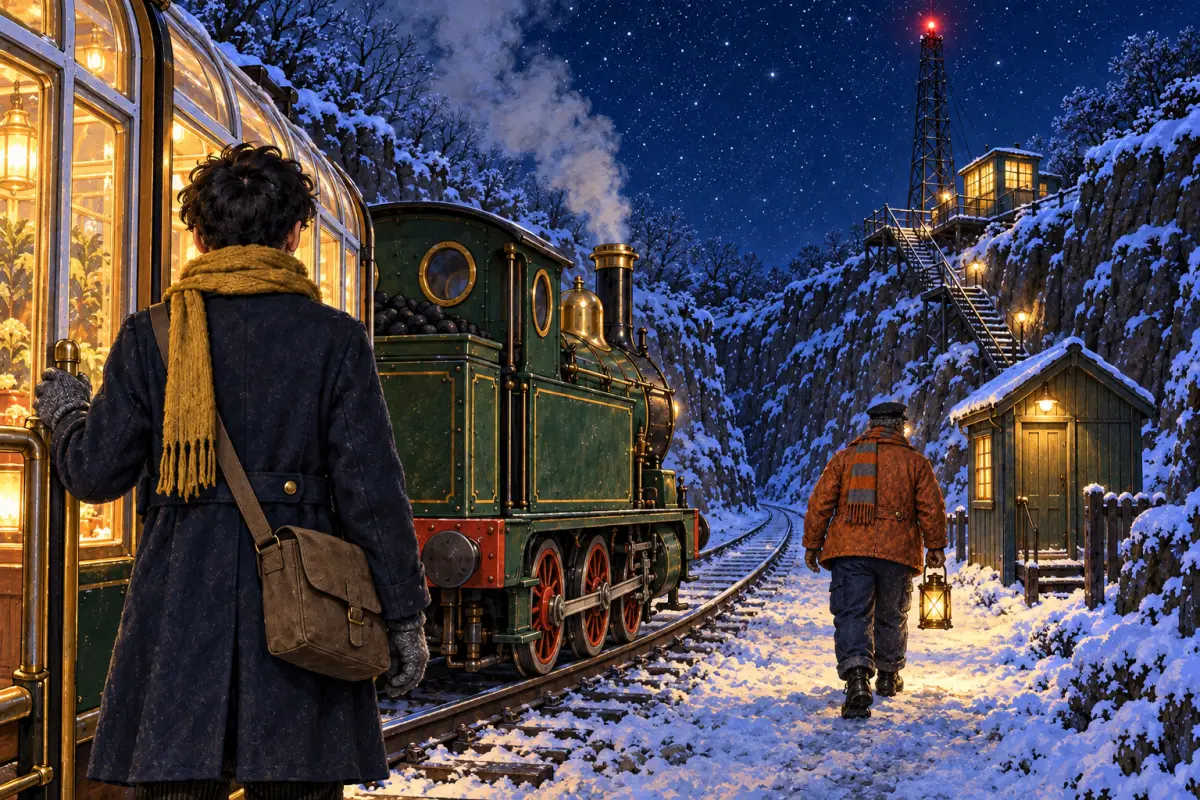
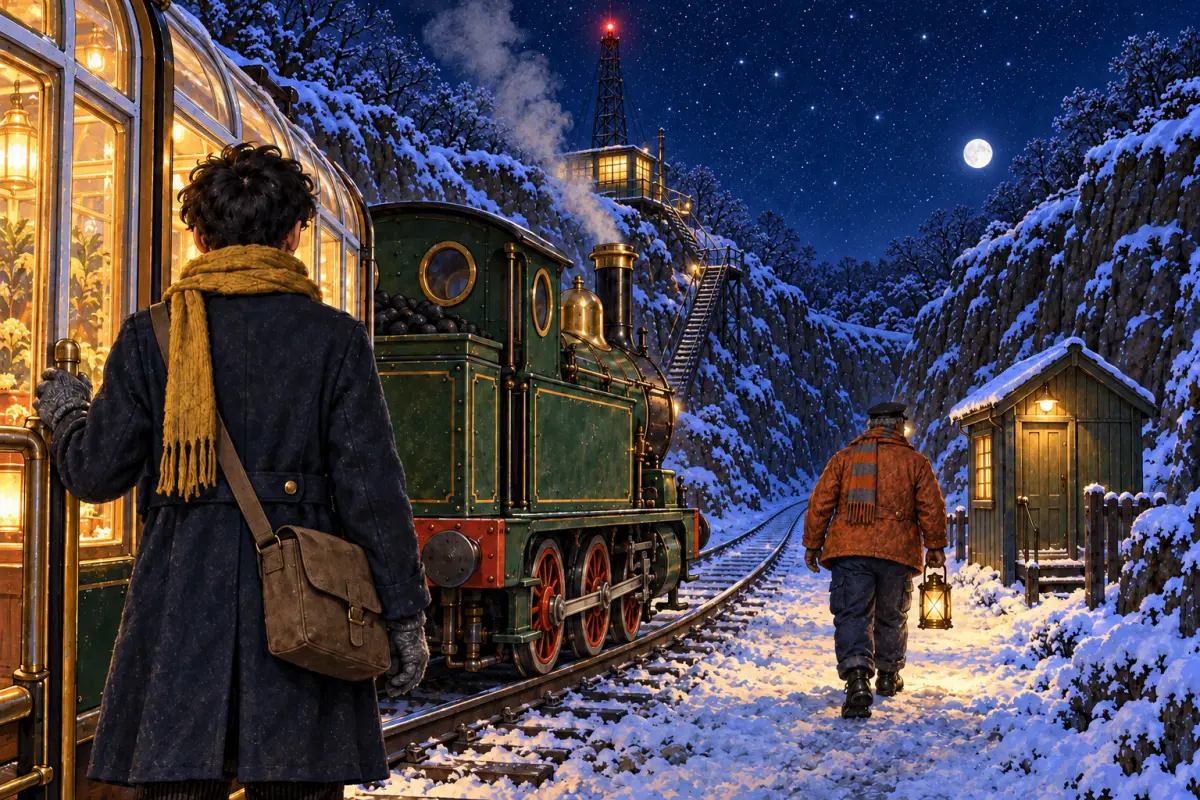
Correct journey bank geography vents and platform darkness

diff --git a/docs/glasshouse-express/art-scene-journey-astra.md b/docs/glasshouse-express/art-scene-journey-astra.md
@@ -8,6 +8,10 @@ Read CLAUDE.md, README.md, imagegen skill, whole story and bible, complete story
 
 The story dump initially failed because this worktree lacks tsx; reran successfully using owner node_modules/.bin on PATH, without changing dependencies.
 
+## Owner correction pass — 2026-10-15
+
+Exclusive corrections C03, C04, D05 and E01 completed with four built-in edit calls, complete exported prompts, all mapped packs and previous selected original targets. Injected Codex/gpt-6-astra/medium and live inherited provider/model plus current reasoningEffort medium reverified. Previous selections retained in ignored `art-src/corrections/<ID>-owner-rejected.png`; their original call records now marked rejected. New originals and final WebPs locally inspected; owner approval pending. Other 11 page files unchanged.
+
 ## Validation
 
 - PASS assigned coverage: 15/15 selected PNGs at 1536×1024 and 15/15 WebPs at 1200×800; 15 distinct final SHA-256 hashes.
@@ -199,12 +203,12 @@ Reference contents establish identity only. Compose a side-window view from insi
 
 ### C03
 
-Accepted first candidate: rear player at doorway, Dov with square lantern approaching hut, correct engine, radio studio/mast/stairs above; trailing vehicles cropped.
+Owner rejected original same-bank hut/studio geography. Targeted built-in edit relocates studio, mast and descending iron stair to LEFT bank beyond engine while hut and approaching Dov stay RIGHT of rails. Exactly two people and original train crop retained. Final PNG/WebP checked against opposite-bank reference.
 
[4 lines of base64/hex data omitted]
 
-#### Call 7 — selected
+#### Call 7 — rejected
 
 Original generated path: `/Users/carl/.codex/generated_images/01a13c80-41e8-74d0-876c-b5a0baf24582/exec-3b69e7b5-c08c-48d5-90b1-58a28dd75284.png`
[1 lines of base64/hex data omitted]
@@ -236,12 +240,45 @@ Reference image 3: upper full board = keeper-props; lower full board = mere-and-
 Reference contents establish identity only. Compose from just behind the apprentice in the near open carriage doorway, looking ahead along the single stopped engine toward the small token hut. Rear of glowing carriage is cropped by frame, and two trailing dark carriages entirely out of shot. Dov walks toward hut holding his square X-braced brass lantern; only Dov and rear-facing apprentice visible. Tall mast and cabin rise above snowy cutting with zigzag stair. Keep roof vents closed, engine three driving axles/no tender. No token in player hands, no other reference equipment, no Cassia in window.
 ```
 
+#### Call 30 — selected
+
+Original generated path: `/Users/carl/.codex/generated_images/01a13c80-41e8-74d0-876c-b5a0baf24582/exec-d1fc2d94-ac09-49d6-9e26-c34aa28f334b.png`
[1 lines of base64/hex data omitted]
+
+Attachments in actual order:
+
[4 lines of base64/hex data omitted]
+
+Complete actual prompt:
+
+```text
+The attached sheets lock identity, shape, colour, clothing and scale only. Draw ONLY the scene below, not a lineup. Do not add other subjects or equipment from a reference. Match this scene’s possession, costume variant, time, location and object state. Shared-path illustrations must be valid on every arrival route; never interpret an optional companion as required.
+Painterly 1980s fantasy-adventure illustration, gouache and ink line, luminous frost blues and warm glasshouse amber, expressive invented faces, cinematic light, 3:2 landscape. Family-friendly, gently comic. Only the listed characters appear; Hesper appears only at the Terminus, Cassia only inside her studio, Sallow only at the Ember Works, Fenn only at the Conservatory; radio voices and telephone voices are never drawn. No real people's likenesses, no famous trains or film props, no logos, no legible text or captions (signs and plates are blank or unreadable). Every scene states location, weather and time: the night is clear with hard frost and stars, wind only on the Mere viaduct, tunnel interiors enclosed and weatherless, dawn scenes clear and golden. Use 'alone (X is not here)' when specified. Keep every character's clothing word-for-word identical to the cast description; scene prompts never substitute outfits. The player's face is always hidden. Action is machinery, weather and plants, never injury; falling glass lands where nobody stands. Optional companions, props and the empty dark carriages are absent unless explicitly listed for that scene.
+
+THE PLAYER: an unnamed, gender-neutral teenager, always seen from behind or over the shoulder with the face hidden, in a navy wool railway greatcoat with brass buttons, a mustard knitted scarf, grey woollen gloves, dark corduroy trousers and black lace-up boots, with a brown canvas keeper's satchel worn across the body on a strap from the LEFT shoulder to the RIGHT hip, closed by a single brass flap buckle. Short dark hair under no hat. The brass thaw-lamp is carried only when listed.
+
+DOV PELLINGER: an original big man in his fifties, dark brown skin, close-cropped grey beard, a black railway cap with a small round brass badge, a quilted rust-orange oilskin jacket over navy bib overalls, a scarf of alternating orange and grey stripes with an orange fringe, heavy black boots. Carries a square X-braced brass hand lantern when outdoors. Calm, slow-moving, kind.
+
+MARIGOLD: a small squat dark-green tank locomotive with NO tender and an integral rear coal bunker, three driving axles (six red-rimmed wheels), a tall chimney capped in brass, a round brass headlamp on the smokebox front, a red buffer beam with a pair of round buffers, black smokebox, polished brass dome and a short cab with round brass-trimmed windows. Always the same engine; no famous or named real locomotive.
+
+Clear frosty night, two o'clock, at Beacon Cut on the far shore of the frozen Mere: the line in a shallow rock cutting, a small token hut with a lamp beside the rails, and above the cutting a tall steel radio mast with a blinking red lamp at its top and a lit studio cabin at its base reached by an iron stair. Marigold stands stopped; Dov walks to the hut with a lantern; the player stands at the open carriage door, seen from behind. Only these two people. Stars, snow on the rocks. Framing cuts off just behind the glowing Glasshouse Carriage; the two empty carriages coupled behind it are out of frame.
+
+Use case: precise-object-edit. Preserve 1536x1024.
+Reference image 1: upper full board = player-hesper; lower full board = dov
+Reference image 2: upper full board = marigold; lower full board = glasshouse-carriage
+Reference image 3: upper full board = keeper-props; lower full board = mere-and-beacon
+Last attachment is edit target. Correct ONLY bank geography: retain token hut and approaching Dov on RIGHT of railway exactly as now. Remove studio, mast and entire staircase from right bank. Relocate this same studio and mast to the LEFT bank beyond/above the locomotive, with iron stair descending the LEFT rock face to the left side of rails. Railway clearly separates hut/right bank from studio/stair/left bank. Match opposite-bank relationship in mere-and-beacon board. Preserve player, Dov pose/lantern, exactly two people, engine and cropped glowing carriage, rails, time, clothing and all other details. No duplicated cabin/mast/stairs, no extra vehicles or figures.
+```
+
 ### C04
 
-Initial copied an extra studio/mast into exterior view and incidental plant. Edit removes duplicates/plant; Cassia teal outfit/headphones, natural receiver hand, rear player and four-vehicle train below verified.
+Earlier edit removed duplicate studio/plant, but owner rejected remaining same-bank stair/hut geography. Targeted built-in correction puts own studio access stairs near LEFT below window, token hut FAR RIGHT across rails; no exterior duplicate studio/mast. Exactly four train vehicles, Cassia/player, interior, hands and clothing preserved. Final PNG/WebP inspected.
 
[4 lines of base64/hex data omitted]
 
 #### Call 8 — rejected
 
@@ -273,7 +310,7 @@ Reference image 3: upper full board = lower-town-interiors; lower full board = m
 Reference contents establish identity only. Inside studio, apprentice rear view near doorway at left, Cassia at mixing desk at right with receiver in one naturally formed hand, silver headphones around neck. Window above desk looks steeply down on EXACTLY four coupled vehicles on a single curved track: one squat green engine, one glowing glasshouse carriage, precisely TWO dark empty carriages. All roof vents closed. No tender, no extra carriage, no figures outside. Make train small enough to show all four vehicles clearly. Include both turntables, microphone, meters and cassette deck, no readable text. No other cast from reference boards.
 ```
 
-#### Call 9 — selected
+#### Call 9 — rejected
 
 Original generated path: `/Users/carl/.codex/generated_images/01a13c80-41e8-74d0-876c-b5a0baf24582/exec-e7edcdbf-0ee6-4c73-8810-cb303b80aa20.png`
[1 lines of base64/hex data omitted]
@@ -302,6 +339,37 @@ Reference image 1: upper full board = player-hesper; lower full board = lower-to
 Reference image 2: upper full board = marigold; lower full board = glasshouse-carriage
 Reference image 3: upper full board = lower-town-interiors; lower full board = mere-and-beacon
 Final image is target. Remove the duplicate lit studio cabin and radio mast on the ridge visible through the window, replacing them with uninterrupted snowy rock and dark trees: we are INSIDE the one studio, so it cannot appear again across the cutting. Retain the small token hut by the rails and stair leading down into cutting. Remove the incidental houseplant in the extreme upper-right indoor corner. Preserve all other details exactly: Cassia face, correct teal jacket, silver headphones, phone receiver and natural hands; hidden-face player with correct satchel; exactly four coupled vehicles with closed vents outside; mixing desk, twin turntables, microphone and cassette deck. No extra subjects from refs.
+```
+
+#### Call 31 — selected
+
+Original generated path: `/Users/carl/.codex/generated_images/01a13c80-41e8-74d0-876c-b5a0baf24582/exec-64adcc8f-c70b-4dc6-8d7c-b1db0e71da1f.png`
[1 lines of base64/hex data omitted]
+
+Attachments in actual order:
+
[4 lines of base64/hex data omitted]
+
+Complete actual prompt:
+
+```text
+The attached sheets lock identity, shape, colour, clothing and scale only. Draw ONLY the scene below, not a lineup. Do not add other subjects or equipment from a reference. Match this scene’s possession, costume variant, time, location and object state. Shared-path illustrations must be valid on every arrival route; never interpret an optional companion as required.
+Painterly 1980s fantasy-adventure illustration, gouache and ink line, luminous frost blues and warm glasshouse amber, expressive invented faces, cinematic light, 3:2 landscape. Family-friendly, gently comic. Only the listed characters appear; Hesper appears only at the Terminus, Cassia only inside her studio, Sallow only at the Ember Works, Fenn only at the Conservatory; radio voices and telephone voices are never drawn. No real people's likenesses, no famous trains or film props, no logos, no legible text or captions (signs and plates are blank or unreadable). Every scene states location, weather and time: the night is clear with hard frost and stars, wind only on the Mere viaduct, tunnel interiors enclosed and weatherless, dawn scenes clear and golden. Use 'alone (X is not here)' when specified. Keep every character's clothing word-for-word identical to the cast description; scene prompts never substitute outfits. The player's face is always hidden. Action is machinery, weather and plants, never injury; falling glass lands where nobody stands. Optional companions, props and the empty dark carriages are absent unless explicitly listed for that scene.
+
+THE PLAYER: an unnamed, gender-neutral teenager, always seen from behind or over the shoulder with the face hidden, in a navy wool railway greatcoat with brass buttons, a mustard knitted scarf, grey woollen gloves, dark corduroy trousers and black lace-up boots, with a brown canvas keeper's satchel worn across the body on a strap from the LEFT shoulder to the RIGHT hip, closed by a single brass flap buckle. Short dark hair under no hat. The brass thaw-lamp is carried only when listed.
+
+CASSIA FLINT: an original woman in her twenties, deep brown skin, short bleached-blonde curls, big silver headphones worn round her neck, a shiny teal puffer jacket over a black turtleneck, black leggings with acid-yellow leg warmers and white high-top sneakers. Quick grin, always near a microphone.
+
+Clear frosty night, two o'clock, inside the small radio studio cabin at the foot of the Beacon Cut mast: egg-crate foam on the walls, a mixing desk with glowing meters, twin turntables, a cassette deck, a desk microphone on a boom, a window looking down on the stopped lit train in the cutting below. Cassia Flint in her shiny teal puffer jacket with big silver headphones round her neck holds a telephone receiver and grins at the player, who stands just inside the door seen from behind. Only these two people. Seen from above, the train in the cutting is the whole four-vehicle Express: Marigold, the glowing carriage and the two dark, empty glass carriages coupled behind.
+
+Use case: precise-object-edit. Preserve 1536x1024.
+Reference image 1: upper full board = player-hesper; lower full board = lower-town-cast
+Reference image 2: upper full board = marigold; lower full board = glasshouse-carriage
+Reference image 3: upper full board = lower-town-interiors; lower full board = mere-and-beacon
+Last attachment is edit target. Edit ONLY the view through studio window. The viewer is INSIDE the studio on its own bank: own iron access stairs descend from just below the window at near LEFT, on near-side rock face, partly cropped by left window edge. Token hut stays FAR RIGHT across railway on opposite bank. Remove the staircase currently above/beside token hut on far right; replace that area with snowy rock and trees. No studio cabin or mast in exterior view because we are inside that cabin. Preserve exactly four train vehicles below: engine, amber glasshouse, two dark glasshouses, all fully visible. Match opposite banks and near-left stair/far-right hut arrangement in mere-and-beacon reference bottom-right panel, without copying layout borders. Keep all interior, Cassia, player, clothes, faces, hands, furniture, telephone, lighting and composition unchanged.
 ```
 
 ### C05
@@ -724,10 +792,10 @@ Composition: tightly frame the end-window and rear-view player in near darkness,
 
 ### D05
 
-Initial had three dark cars and dome behind engine, rejected. Edit yields exactly four vehicles, dark dome ahead, city/frozen lake below, fully dark starry sky and red mast. Rear player small at window, no diagnostically readable plant state.
+Initial three dark cars/dome behind engine rejected; earlier edit repaired consist/direction but owner found raised ridge vents. Targeted built-in correction closes all three carriage roof vent rows flush, retaining brass hardware. Exactly four vehicles, fully dark sky, dome ahead, city/lake and player preserved. Final PNG/WebP inspected.
 
[4 lines of base64/hex data omitted]
 
 #### Call 20 — rejected
 
@@ -763,7 +831,7 @@ Reference image 3: entire board = conservatory-exterior
 Wide cinematic elevated landscape: exactly FOUR connected railway vehicles on one coherent gently curved shelf track: green tank engine leading toward the dark summit dome, ONE amber greenhouse carriage, then exactly TWO dark unlit matching greenhouse carriages. All four fully visible. Engine three axles, no tender. Small rear-view player visible from carriage end window, face hidden; plants and vent states too small to read. Dark dome ahead at higher summit to right, city and frozen lake far below to left. Entire star-filled sky deep midnight navy with no sunrise or pale horizon. No extra people, railway vehicles, buildings from board layouts, labels or inset details.
 ```
 
-#### Call 21 — selected
+#### Call 21 — rejected
 
 Original generated path: `/Users/carl/.codex/generated_images/01a13c80-41e8-74d0-876c-b5a0baf24582/exec-a1fa7190-0bba-4e25-bbd1-2958461934ec.png`
[1 lines of base64/hex data omitted]
@@ -796,6 +864,41 @@ Reference image 1: upper full board = player-hesper; lower full board = marigold
 Reference image 2: upper full board = glasshouse-carriage; lower full board = mere-and-beacon
 Reference image 3: entire board = conservatory-exterior
 Last image is edit target, not a reference. Remove ONE of the THREE dark trailing glass carriages: result must be exactly engine, one amber carriage, TWO dark carriages = FOUR total vehicles. Move the dark Conservatory dome and its gate from upper right to a rocky summit shelf at lower-left ahead of the engine, with track curving toward it beyond the left crop. Remove old dome and gate at upper right, replacing with snow/rock/trees and dark cut behind the last carriage. Preserve midnight sky, city/lake below, player rear view, engine identity. Close the readable raised ridge vents flush so no raised panels; keep plants too indistinct to diagnose their health. No new objects or people.
+```
+
+#### Call 32 — selected
+
+Original generated path: `/Users/carl/.codex/generated_images/01a13c80-41e8-74d0-876c-b5a0baf24582/exec-58109a33-75fc-43f4-9657-82150258285c.png`
[1 lines of base64/hex data omitted]
+
+Attachments in actual order:
+
[4 lines of base64/hex data omitted]
+
+Complete actual prompt:
+
+```text
+The attached sheets lock identity, shape, colour, clothing and scale only. Draw ONLY the scene below, not a lineup. Do not add other subjects or equipment from a reference. Match this scene’s possession, costume variant, time, location and object state. Shared-path illustrations must be valid on every arrival route; never interpret an optional companion as required.
+Painterly 1980s fantasy-adventure illustration, gouache and ink line, luminous frost blues and warm glasshouse amber, expressive invented faces, cinematic light, 3:2 landscape. Family-friendly, gently comic. Only the listed characters appear; Hesper appears only at the Terminus, Cassia only inside her studio, Sallow only at the Ember Works, Fenn only at the Conservatory; radio voices and telephone voices are never drawn. No real people's likenesses, no famous trains or film props, no logos, no legible text or captions (signs and plates are blank or unreadable). Every scene states location, weather and time: the night is clear with hard frost and stars, wind only on the Mere viaduct, tunnel interiors enclosed and weatherless, dawn scenes clear and golden. Use 'alone (X is not here)' when specified. Keep every character's clothing word-for-word identical to the cast description; scene prompts never substitute outfits. The player's face is always hidden. Action is machinery, weather and plants, never injury; falling glass lands where nobody stands. Optional companions, props and the empty dark carriages are absent unless explicitly listed for that scene.
+
+THE PLAYER: an unnamed, gender-neutral teenager, always seen from behind or over the shoulder with the face hidden, in a navy wool railway greatcoat with brass buttons, a mustard knitted scarf, grey woollen gloves, dark corduroy trousers and black lace-up boots, with a brown canvas keeper's satchel worn across the body on a strap from the LEFT shoulder to the RIGHT hip, closed by a single brass flap buckle. Short dark hair under no hat. The brass thaw-lamp is carried only when listed.
+
+THE GLASSHOUSE CARRIAGE: a long railway carriage whose upper body is a greenhouse of small panes in a white-painted iron frame on a dark-green wooden underbody, a row of hinged ridge vents along the roof with a brass wax autovent cylinder at the centre, a small black iron stove chimney at one end, end windows and sliding platform doors, glowing warm amber from inside. Two matching dark, unlit, empty glass carriages (the Fern House and Orchard Car) couple behind it only when a scene lists them.
+
+MARIGOLD: a small squat dark-green tank locomotive with NO tender and an integral rear coal bunker, three driving axles (six red-rimmed wheels), a tall chimney capped in brass, a round brass headlamp on the smokebox front, a red buffer beam with a pair of round buffers, black smokebox, polished brass dome and a short cab with round brass-trimmed windows. Always the same engine; no famous or named real locomotive.
+
+THE CONSERVATORY: a great glass dome on the summit of Cold Hill, white-painted iron ribs, a lantern cupola at the crown, a stone base, and on its eastern face a curved row of twelve tall vertical iron shutters with a heavy chain and a large brass wax cylinder mounted high where their gear meets the ribs. Inside, a round raised stone planting bed (the Great Bed) with a small iron stove door in its base, and narrow hand-opened side louvres low in the walls. Outside, iron gates in a stone wall and a frozen fountain.
+
+Clear frosty deep night with no dawn glow yet, the Glasshouse Express emerging from the summit cut onto the top of Cold Hill: Marigold leading the glowing glass carriage and, coupled behind it, the two dark, empty glass carriages (the Fern House and the Orchard Car) along a shelf of track above the whole city, Tallowmere's lights spread far below in tiers down to the moonlit frozen Mere with the tiny red mast light on its far shore; ahead on the summit, the great dark glass dome of the Conservatory with its white iron ribs and lantern cupola. The player is a small figure seen from behind at the carriage window. Stars; the eastern sky still fully dark. Only the player visible.
+
+Use case: precise-object-edit. Preserve 1536x1024.
+Reference image 1: upper full board = player-hesper; lower full board = marigold
+Reference image 2: upper full board = glasshouse-carriage; lower full board = mere-and-beacon
+Reference image 3: entire board = conservatory-exterior
+Last attachment is edit target. ONLY close ALL raised ridge vent glass panels on ALL THREE greenhouse carriage roofs. Every vent must lie shut, flush with curved roof glazing, with continuous unbroken glazed roof silhouette. Remove lifted panels, triangular gaps and propped-open vent frames; retain brass autovent cylinders and fixed structural ribs as hardware. This scene has CLOSED vents on every arrival route. Preserve exactly four vehicles, train position/geometry, dome, dark night sky, city/lake, player, colors and all other details unchanged.
 ```
 
 ### D06
@@ -944,10 +1047,10 @@ Last image edit target. Repair railway geometry ONLY: remove current separate tr
 
 ### E01
 
-Initial fire too high, rejected. Targeted edit reduces to low coal glow. Hesper seated bowed at radio, left bandaged ankle on stool under tartan, grey sock; rear seated player hands clasped, empty fully dark platform. Natural anatomy and hands.
+Initial high fire corrected to low coal glow; owner then rejected illuminated exterior platform lamps/windows. Targeted built-in edit extinguishes all exterior lights: empty moonlit blue platform, no train. Interior lamplight, low coals, bowed Hesper/radio, LEFT bandaged ankle on stool, tartan and rear seated player preserved. Final PNG/WebP inspected.
 
[4 lines of base64/hex data omitted]
 
 #### Call 27 — rejected
 
@@ -975,7 +1078,7 @@ Reference image 1: upper full board = player-hesper; lower full board = winter-t
 Quiet restrained composition: rear-view player seated on hard wooden chair foreground left, grey gloved hands clasped visibly in lap, face entirely hidden. Hesper across small desk to right, head bowed, glasses and white short plait, one natural hand resting on small transistor radio. Her LEFT bandaged ankle is propped on a low stool, foot grey sock, red tartan blanket draped over knee and stool allowing bandage to read. Her other foot on floor. Low coal glow, dark empty platform through window, fully dark 5am not dawn. No train, extra people, outdoor clothing on Hesper, crutches, plants or copied reference labels.
 ```
 
-#### Call 28 — selected
+#### Call 28 — rejected
 
 Original generated path: `/Users/carl/.codex/generated_images/01a13c80-41e8-74d0-876c-b5a0baf24582/exec-57f1149e-7048-4250-8b66-aa44cfa5bb99.png`
[1 lines of base64/hex data omitted]
@@ -1000,6 +1103,33 @@ Clear frosty night, five in the morning and still fully dark, inside the station
 Use case: precise-object-edit. 1536x1024.
 Reference image 1: upper full board = player-hesper; lower full board = winter-terminus
 Last attached image edit target. Change ONLY fireplace: replace tall bright flames with a low bed of dim red glowing coals and at most tiny low flickers. Preserve lamplight elsewhere, Hesper bowed head and hand on radio, LEFT strapped ankle on stool, player rear view hands clasped, clothes, night empty platform and composition. No other changes.
+```
+
+#### Call 33 — selected
+
+Original generated path: `/Users/carl/.codex/generated_images/01a13c80-41e8-74d0-876c-b5a0baf24582/exec-df9125ce-07f7-4814-9223-a3bb4ddafc4f.png`
[1 lines of base64/hex data omitted]
+
+Attachments in actual order:
+
[2 lines of base64/hex data omitted]
+
+Complete actual prompt:
+
+```text
+The attached sheets lock identity, shape, colour, clothing and scale only. Draw ONLY the scene below, not a lineup. Do not add other subjects or equipment from a reference. Match this scene’s possession, costume variant, time, location and object state. Shared-path illustrations must be valid on every arrival route; never interpret an optional companion as required.
+Painterly 1980s fantasy-adventure illustration, gouache and ink line, luminous frost blues and warm glasshouse amber, expressive invented faces, cinematic light, 3:2 landscape. Family-friendly, gently comic. Only the listed characters appear; Hesper appears only at the Terminus, Cassia only inside her studio, Sallow only at the Ember Works, Fenn only at the Conservatory; radio voices and telephone voices are never drawn. No real people's likenesses, no famous trains or film props, no logos, no legible text or captions (signs and plates are blank or unreadable). Every scene states location, weather and time: the night is clear with hard frost and stars, wind only on the Mere viaduct, tunnel interiors enclosed and weatherless, dawn scenes clear and golden. Use 'alone (X is not here)' when specified. Keep every character's clothing word-for-word identical to the cast description; scene prompts never substitute outfits. The player's face is always hidden. Action is machinery, weather and plants, never injury; falling glass lands where nobody stands. Optional companions, props and the empty dark carriages are absent unless explicitly listed for that scene.
+
+THE PLAYER: an unnamed, gender-neutral teenager, always seen from behind or over the shoulder with the face hidden, in a navy wool railway greatcoat with brass buttons, a mustard knitted scarf, grey woollen gloves, dark corduroy trousers and black lace-up boots, with a brown canvas keeper's satchel worn across the body on a strap from the LEFT shoulder to the RIGHT hip, closed by a single brass flap buckle. Short dark hair under no hat. The brass thaw-lamp is carried only when listed.
+
+HESPER VANE: an original woman in her seventies, pale freckled skin, white hair in a short plait, round tortoiseshell glasses, in a bottle-green station jumper, a grey wool skirt and thick grey socks, her LEFT ankle strapped in white bandage and propped on a stool under a red tartan blanket. Sharp, dry, affectionate. Never standing in any scene except on crutches in the epilogue if listed.
+
+Clear frosty night, five in the morning and still fully dark, inside the stationmaster's office at Winter Terminus: Hesper Vane sits with her strapped ankle on its stool, head bowed, one hand on a small transistor radio on the desk; the player sits on a hard chair across from her, seen from behind, hands clasped. The platform outside the window is empty and dark, with no train. Only these two people. Coal fire low.
+
+Use case: precise-object-edit. Preserve 1536x1024.
+Reference image 1: upper full board = player-hesper; lower full board = winter-terminus
+Last attachment is edit target. Change ONLY exterior view through window: extinguish EVERY platform lamp head, canopy lamp and station window outside. Their glass must be dark, no yellow/orange emission or pools of warm light outside. Empty platform and station canopy remain dim moonlit blue silhouettes, stars and snow faintly visible, no train or person. Interior lamplight unchanged. Preserve Hesper head bowed and hand on radio, LEFT bandaged ankle on stool, tartan, player rear view/clasped hands, low red coal fire, all anatomy/clothes/furniture/composition. Do not brighten fireplace or darken interior.
 ```
 
 ### E02
